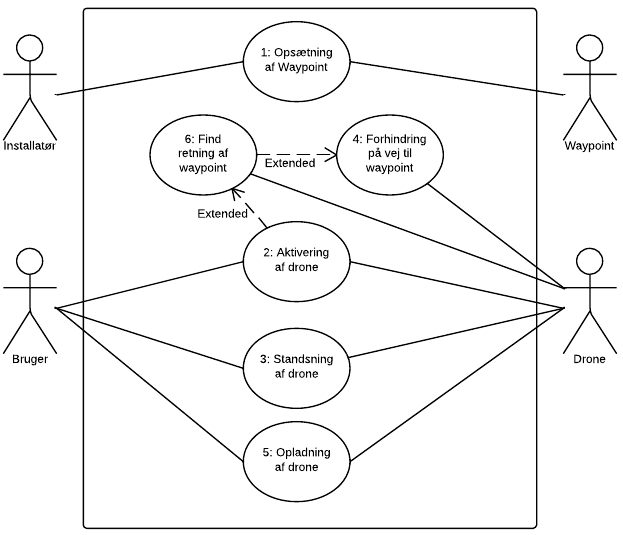
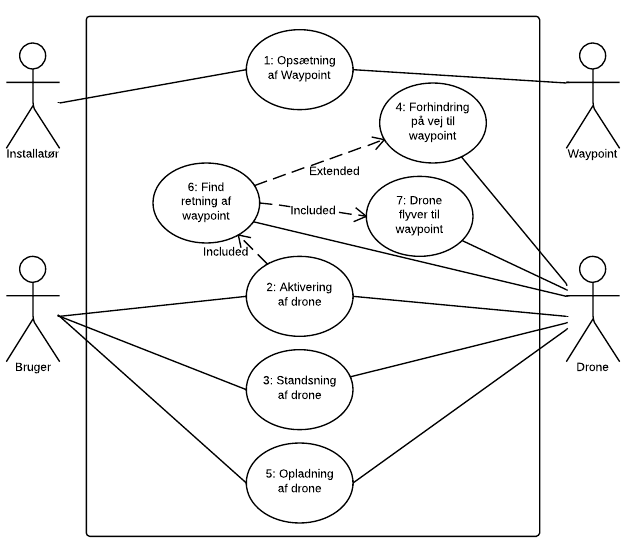
Added AktQrdiagram and minor changes through the document

diff --git a/Dokumentation/Kravspecifikation/3-FunktionelleKrav-UseCases.tex b/Dokumentation/Kravspecifikation/3-FunktionelleKrav-UseCases.tex
@@ -67,9 +67,9 @@ Normalforløb &	\vspace{-8mm}
 	\item Drone initierer
 	\item[] \textit{Undtagelse: Fejl i initiering}
 	\item Drone letter
-	\item \label{enu:waypoint} Extended Use Case: Find retning af waypoint
+	\item \label{enu:waypoint} Included Use Case: Find retning af waypoint
 	\item[] \textit{Undtagelse: Ingen waypoints fundet}
-	\item \label{enu:flyvning} Extended Use Case: Drone påbegynder flyvning til waypoint
+	\item \label{enu:flyvning} Included Use Case: Drone flyver til waypoint
 	\item[] \textit{Undtagelse: Forhindring på vej til waypoint}
 	\item[] \textit{Undtagelse: Mister forbindelse}
 	\item[] \textit{Undtagelse: Lavt batteriniveau}
@@ -104,7 +104,7 @@ Undtagelser & \vspace{-8mm}
 	\begin{enumerate}[noitemsep,nolistsep,leftmargin=*]
 	\item[5] \textit{Undtagelse: Forhindring på vej til waypoint}
 		\begin{itemize}[noitemsep,nolistsep]
-		\item Drone starter Extended Use Case \ref{UC:extend}
+		\item Drone starter Extended Use Case 4.
 		\end{itemize}
 	\end{enumerate}
 	
@@ -271,7 +271,7 @@ Undtagelser & \vspace{-8mm}
 
 
 
-\subsection{Extended Use Case 6}\label{UC:extend}
+\subsection{Included Use Case 6}\label{UC:extend}
 
 \begin{longtable}{|p{0.25\textwidth}|p{0.7\textwidth}|}
 \hline
@@ -313,7 +313,7 @@ Undtagelser & \vspace{-8mm}
 
 
 
-\subsection{Extended Use Case 7}\label{UC:extend flyv}
+\subsection{Included Use Case 7}\label{UC:extend flyv}
 
 \begin{longtable}{|p{0.25\textwidth}|p{0.7\textwidth}|}
 \hline

diff --git a/Dokumentation/Kravspecifikation/2-GenerelBeskrivelse.tex b/Dokumentation/Kravspecifikation/2-GenerelBeskrivelse.tex
@@ -39,8 +39,8 @@ Personerne der interagerer med systemet er vist på venstre side, mens de forske
 
 \begin{figure}[hbtp]
 \centering
-\includegraphics[scale=1]{Dummy}
-\caption{Systemoversigt \fxnote{Her skal indsættes en rigtigt figur}}
+\includegraphics[scale=0.75]{AktQrDiagram}
+\caption{Aktørdiagram}
 \label{Fig:Aktor-oversigt}
 \end{figure}
 
